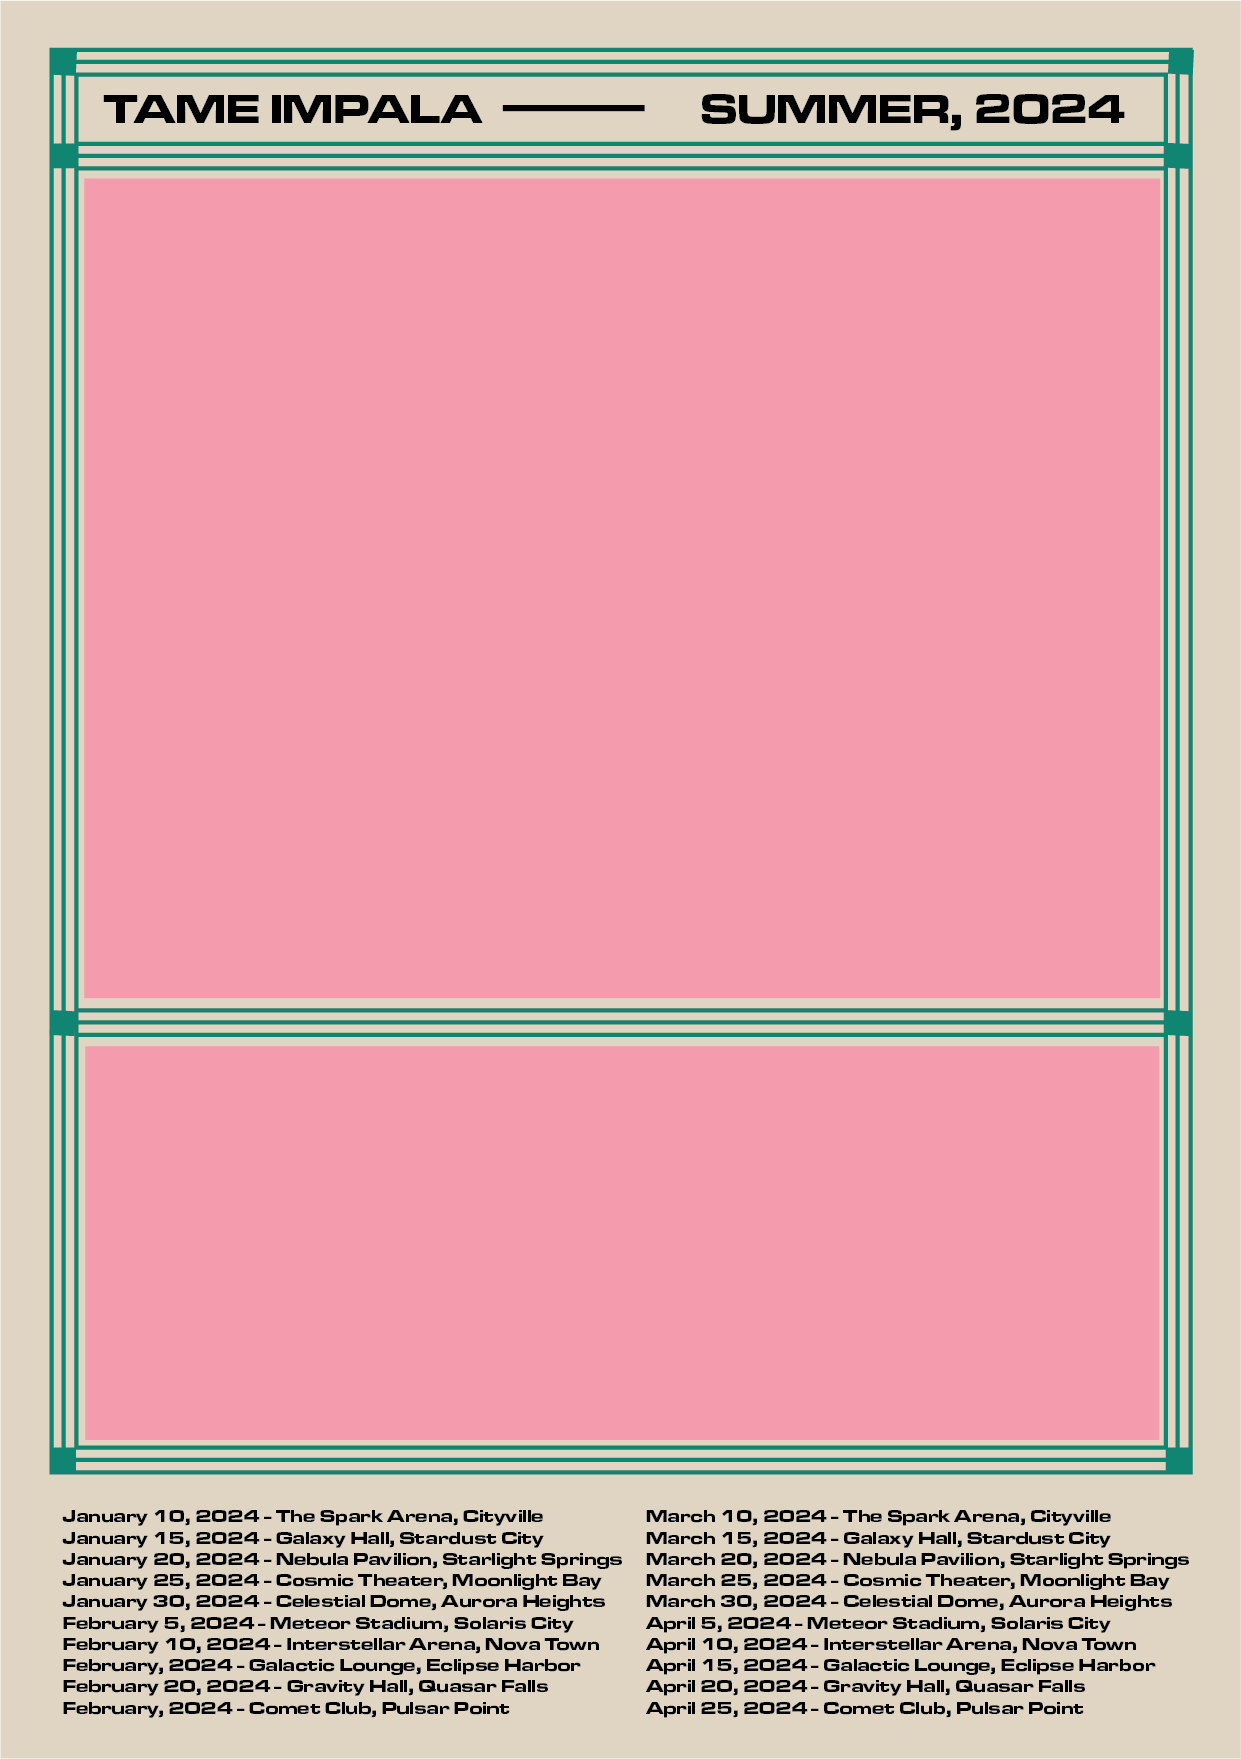
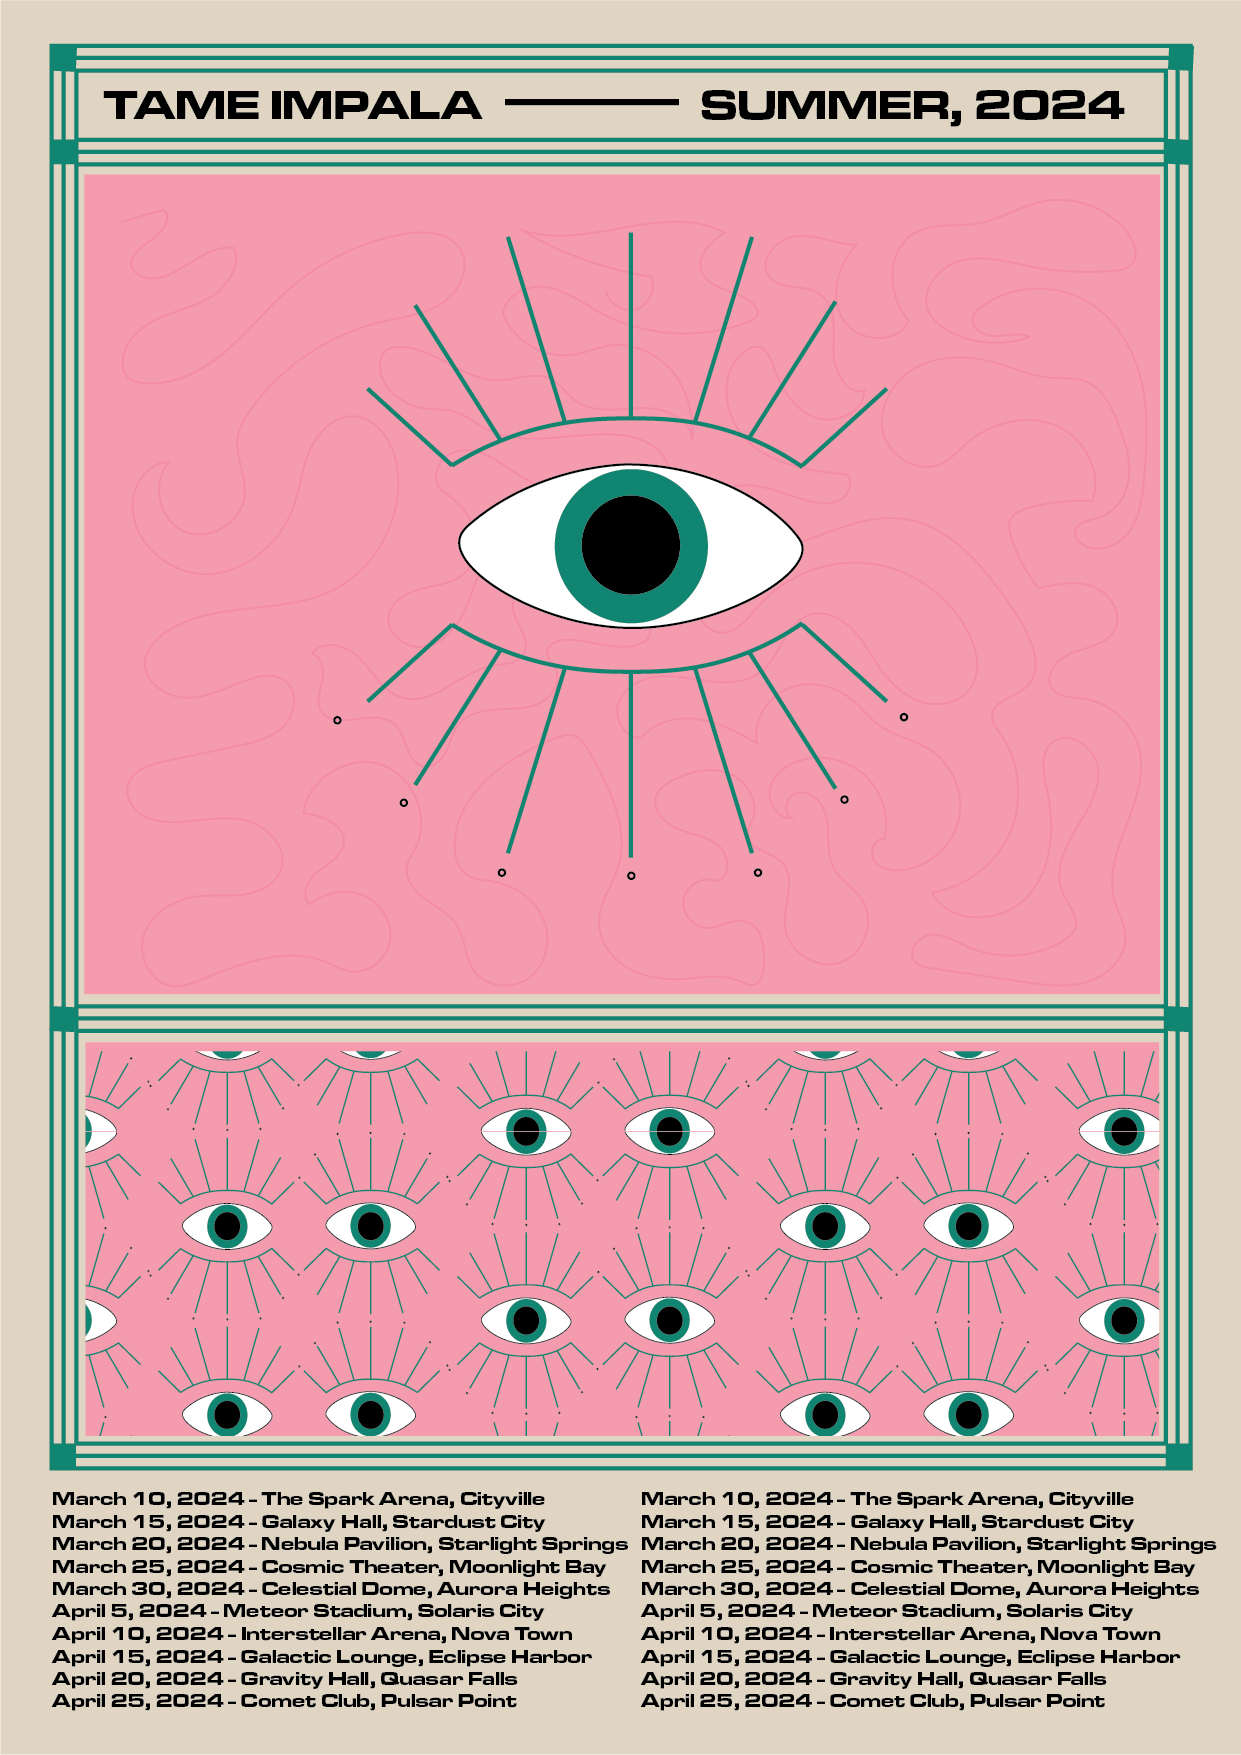
9/01

diff --git a/music_starter.js b/music_starter.js
@@ -1,29 +1,71 @@
 
 // vocal, drum, bass, and other are volumes ranging from 0 to 100  
-  let firstRun = true;
+ 
+let firstRun = true;
   let testIng;
   
   function draw_one_frame (vocal,drum,bass,other){
   
   if(firstRun){
-<<<<<<< Updated upstream
   //rectmode (CENTER);
-=======
   rectMode (CENTER);
->>>>>>> Stashed changes
   testIng = loadImage ('Background.png');
   
   firstRun=false
   
   }
   
-  background (20);
-<<<<<<< Updated upstream
+  //background (20);
   image (testIng, 0,0)
-=======
-  image (testIng, 100)
-  ,100
->>>>>>> Stashed changes
+
+  //ellipse (630,550,100,100); 
+ var ballSize = 550;
+  var ballSize = map(bass,200,200,10,10);
+  ellipse (width/2,bass, ballSize );
+
+
+
+  //////////////////////////////////////////////
+
+let SecondRun = true
+let eye = {};
+function draw_one_frame (vocal,drum,bass,other){
+  if (SecondRun){
+rectMode(CENTER);
+eye.push(loadImage('eyes_0.png'));
+eye.push(loadImage('eyes_1.png'));
+eye.push(loadImage('eyes_2.png'));
+
+SecondRun = flase 
+  }
+
+let VocalFrame = int(map(vocal,0,100,0,2));
+concole.log(VocalFrame);
+push();
+scale();
+images(eye[VocalFrame],width/2, height/2);
+pop();
+
+}
+
+
+
+
+
+
+
+
+
+
+
+
+
+
+
+
+
+
+
   }
 
 

diff --git a/system_runner.js b/system_runner.js
@@ -1,5 +1,5 @@
-const canvasWidth = 540;
-const canvasHeight = 960;
+const canvasWidth = 1244;
+const canvasHeight = 1760;
 
 
 let mainCanvas;
